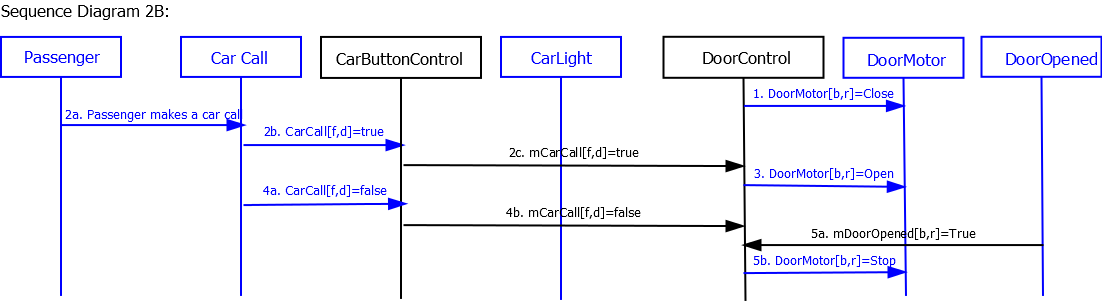
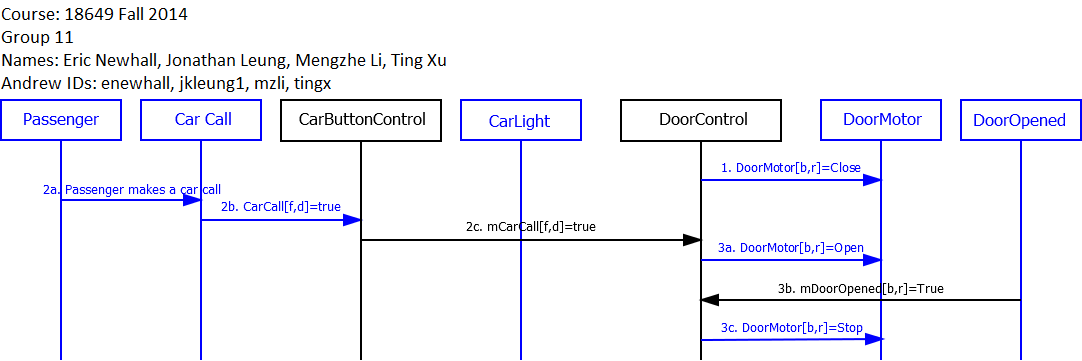
Updated SD2B and updated drivecontrol

diff --git a/portfolio/scen_sd/scen_sd.html b/portfolio/scen_sd/scen_sd.html
@@ -208,8 +208,7 @@ has not yet exited the car. </li>
 <ol start="1" type="1">
    <li>Door[b,r] begins to close</li>
    <li>Passenger presses the car call button for the current floor</li>
-   <li>Door[b,r] begins to open</li>
-   <li>Door[b,r] completes opening</li>
+   <li>Door[b,r] opens</li>
 </ol>
 <h3> Post-Conditions: </h3>
 <ul type="disc">
@@ -217,10 +216,8 @@ has not yet exited the car. </li>
 	<li>Elevator is at the passenger's desired floor</li>
 </ul>	
 <h3> Sequence Diagram: </h3>
-<p> <a href="header.png"><img src="header.png" alt="header"
- style="width: 451; height: 94;"></a> </p>
 <p> <a href="sd2b.png"><img src="sd2b.png" alt="2B"
- style="border: 0px solid ; width: 1102; height: 301;"></a> </p>
+ style="border: 0px solid ; width: 1082; height: 361;"></a> </p>
 <div align="center">
 <hr size="2" width="100%" align="center"> </div>
 

diff --git a/portfolio/elevatorcontrol/DriveControl.java b/portfolio/elevatorcontrol/DriveControl.java
@@ -232,7 +232,7 @@ public class DriveControl extends Controller implements TimeSensitive {
                 break;
             case LEVEL_DOWN:
                 doLevelDown();
-                if(mEmergencyBrake.getValue() == true || (mLevelU.getValue() == true && mLevelD.getValue() == true && DriveObject.LevelingSpeed >= localSpeed.speed())) { //#transition 'T6.7'
+                if(mEmergencyBrake.getValue() == true || (mLevelD.getValue() == true && DriveObject.LevelingSpeed >= localSpeed.speed())) { //#transition 'T6.7'
                     log("T6.7");
                     nextState = State.STOP;
                 }
@@ -249,7 +249,7 @@ public class DriveControl extends Controller implements TimeSensitive {
                 break;
             case LEVEL_UP:
                 doLevelUp();
-                if(mEmergencyBrake.getValue() == true || (mLevelU.getValue() == true && mLevelD.getValue() == true && DriveObject.LevelingSpeed >= localSpeed.speed())) { //#transition 'T6.3'
+                if(mEmergencyBrake.getValue() == true || (mLevelU.getValue() == true && DriveObject.LevelingSpeed >= localSpeed.speed())) { //#transition 'T6.3'
                     log("T6.3");
                     nextState = State.STOP;
                 }
